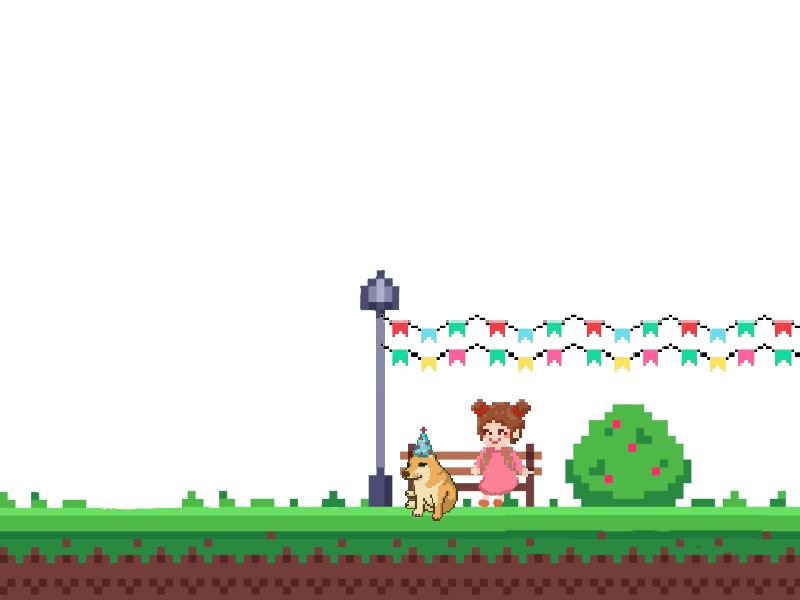
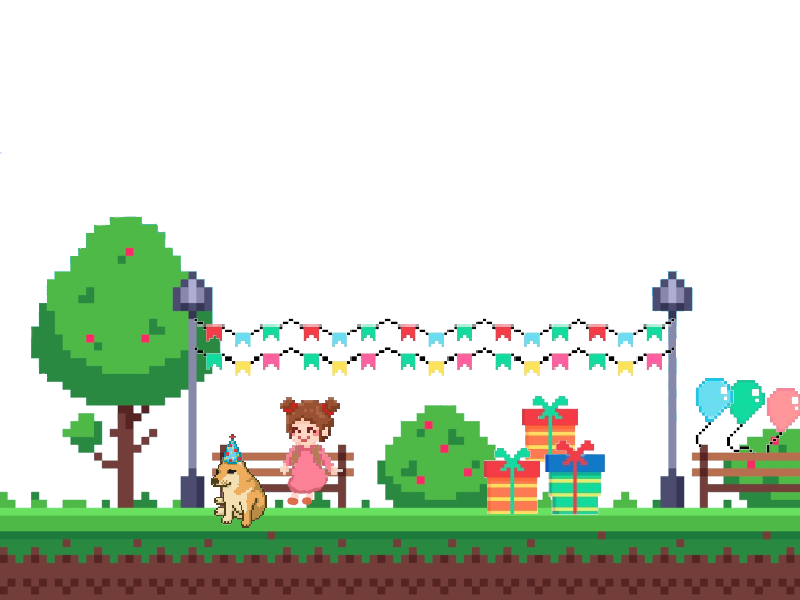
Updated backgrounds

Changed region(s): [[0.0312, 0.36, 1.0, 0.9], [0.875, 0.9, 0.9062, 0.93], [0.6562, 0.9, 0.6875, 0.93]]

diff --git a/levels/level_happy_birthday.py b/levels/level_happy_birthday.py
@@ -109,7 +109,7 @@ def start():
 
 
     # Create the background image for the level
-    bg_img = pygame.image.load('assets/images/backgrounds/happy_birthday_background_blue.png')
+    bg_img = pygame.image.load('assets/images/backgrounds/happy_birthday_background.png')
     bg_img = pygame.transform.scale(bg_img,(SCREEN_WIDTH,SCREEN_HEIGHT))
 
     # a foreground image for the notes to go behind
